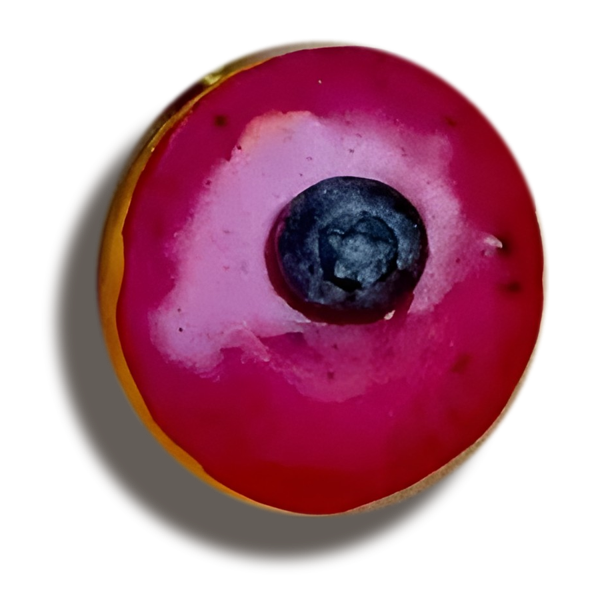
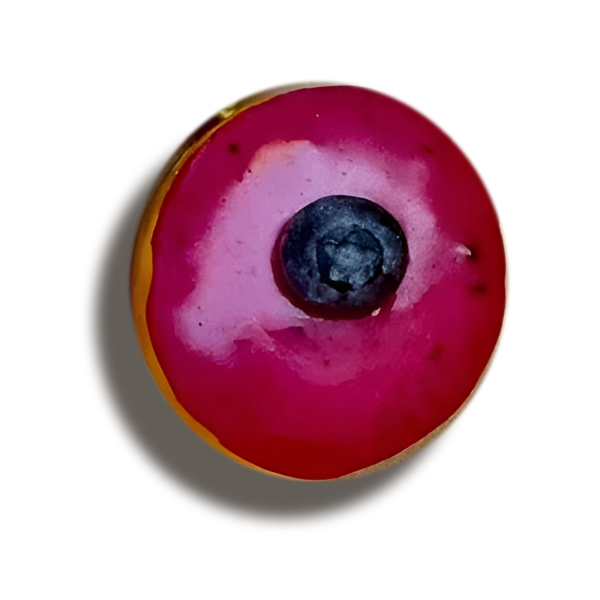
Experiences hero centers the woman on the left on phones; Berry Sage a size smaller
Claude-Session: https://claude.ai/code/session_017dyk7HcCai2t8WYJDRU6Y3

diff --git a/accessibility.html b/accessibility.html
@@ -27,7 +27,7 @@
   <link rel="preconnect" href="https://fonts.googleapis.com">
   <link rel="preconnect" href="https://fonts.gstatic.com" crossorigin>
   <link href="https://fonts.googleapis.com/css2?family=Anton&family=Caudex:ital,wght@0,400;0,700;1,400;1,700&family=Figtree:wght@400;500;700;800;900&family=Montserrat:wght@800;900&display=swap" rel="stylesheet">
-  <link rel="stylesheet" href="styles.css?v=035a227a">
+  <link rel="stylesheet" href="styles.css?v=7808df28">
 </head>
 <body class="page-accessibility">
 
@@ -216,7 +216,7 @@
   </div>
 </dialog>
 
-<script src="data/fallback.js?v=035a227a" defer></script>
-<script src="app.js?v=035a227a" defer></script>
+<script src="data/fallback.js?v=7808df28" defer></script>
+<script src="app.js?v=7808df28" defer></script>
 </body>
 </html>

diff --git a/experiences.html b/experiences.html
@@ -27,7 +27,7 @@
   <link rel="preconnect" href="https://fonts.googleapis.com">
   <link rel="preconnect" href="https://fonts.gstatic.com" crossorigin>
   <link href="https://fonts.googleapis.com/css2?family=Anton&family=Caudex:ital,wght@0,400;0,700;1,400;1,700&family=Figtree:wght@400;500;700;800;900&family=Montserrat:wght@800;900&display=swap" rel="stylesheet">
-  <link rel="stylesheet" href="styles.css?v=035a227a">
+  <link rel="stylesheet" href="styles.css?v=7808df28">
 </head>
 <body class="page-experiences">
 
@@ -233,7 +233,7 @@
   </div>
 </dialog>
 
-<script src="data/fallback.js?v=035a227a" defer></script>
-<script src="app.js?v=035a227a" defer></script>
+<script src="data/fallback.js?v=7808df28" defer></script>
+<script src="app.js?v=7808df28" defer></script>
 </body>
 </html>

diff --git a/locations.html b/locations.html
@@ -27,7 +27,7 @@
   <link rel="preconnect" href="https://fonts.googleapis.com">
   <link rel="preconnect" href="https://fonts.gstatic.com" crossorigin>
   <link href="https://fonts.googleapis.com/css2?family=Anton&family=Caudex:ital,wght@0,400;0,700;1,400;1,700&family=Figtree:wght@400;500;700;800;900&family=Montserrat:wght@800;900&display=swap" rel="stylesheet">
-  <link rel="stylesheet" href="styles.css?v=035a227a">
+  <link rel="stylesheet" href="styles.css?v=7808df28">
 </head>
 <body class="page-locations">
 
@@ -233,7 +233,7 @@
   </div>
 </dialog>
 
-<script src="data/fallback.js?v=035a227a" defer></script>
-<script src="app.js?v=035a227a" defer></script>
+<script src="data/fallback.js?v=7808df28" defer></script>
+<script src="app.js?v=7808df28" defer></script>
 </body>
 </html>

diff --git a/our-story.html b/our-story.html
@@ -27,7 +27,7 @@
   <link rel="preconnect" href="https://fonts.googleapis.com">
   <link rel="preconnect" href="https://fonts.gstatic.com" crossorigin>
   <link href="https://fonts.googleapis.com/css2?family=Anton&family=Caudex:ital,wght@0,400;0,700;1,400;1,700&family=Figtree:wght@400;500;700;800;900&family=Montserrat:wght@800;900&display=swap" rel="stylesheet">
-  <link rel="stylesheet" href="styles.css?v=035a227a">
+  <link rel="stylesheet" href="styles.css?v=7808df28">
 </head>
 <body class="page-our-story">
 
@@ -243,7 +243,7 @@
   </div>
 </dialog>
 
-<script src="data/fallback.js?v=035a227a" defer></script>
-<script src="app.js?v=035a227a" defer></script>
+<script src="data/fallback.js?v=7808df28" defer></script>
+<script src="app.js?v=7808df28" defer></script>
 </body>
 </html>

diff --git a/flavors.html b/flavors.html
@@ -27,7 +27,7 @@
   <link rel="preconnect" href="https://fonts.googleapis.com">
   <link rel="preconnect" href="https://fonts.gstatic.com" crossorigin>
   <link href="https://fonts.googleapis.com/css2?family=Anton&family=Caudex:ital,wght@0,400;0,700;1,400;1,700&family=Figtree:wght@400;500;700;800;900&family=Montserrat:wght@800;900&display=swap" rel="stylesheet">
-  <link rel="stylesheet" href="styles.css?v=035a227a">
+  <link rel="stylesheet" href="styles.css?v=7808df28">
 </head>
 <body class="page-flavors">
 
@@ -258,7 +258,7 @@
   </div>
 </dialog>
 
-<script src="data/fallback.js?v=035a227a" defer></script>
-<script src="app.js?v=035a227a" defer></script>
+<script src="data/fallback.js?v=7808df28" defer></script>
+<script src="app.js?v=7808df28" defer></script>
 </body>
 </html>

diff --git a/pop-ups.html b/pop-ups.html
@@ -27,7 +27,7 @@
   <link rel="preconnect" href="https://fonts.googleapis.com">
   <link rel="preconnect" href="https://fonts.gstatic.com" crossorigin>
   <link href="https://fonts.googleapis.com/css2?family=Anton&family=Caudex:ital,wght@0,400;0,700;1,400;1,700&family=Figtree:wght@400;500;700;800;900&family=Montserrat:wght@800;900&display=swap" rel="stylesheet">
-  <link rel="stylesheet" href="styles.css?v=035a227a">
+  <link rel="stylesheet" href="styles.css?v=7808df28">
 </head>
 <body class="page-pop-ups">
 
@@ -349,7 +349,7 @@
   </div>
 </dialog>
 
-<script src="data/fallback.js?v=035a227a" defer></script>
-<script src="app.js?v=035a227a" defer></script>
+<script src="data/fallback.js?v=7808df28" defer></script>
+<script src="app.js?v=7808df28" defer></script>
 </body>
 </html>

diff --git a/index.html b/index.html
@@ -27,7 +27,7 @@
   <link rel="preconnect" href="https://fonts.googleapis.com">
   <link rel="preconnect" href="https://fonts.gstatic.com" crossorigin>
   <link href="https://fonts.googleapis.com/css2?family=Anton&family=Caudex:ital,wght@0,400;0,700;1,400;1,700&family=Figtree:wght@400;500;700;800;900&family=Montserrat:wght@800;900&display=swap" rel="stylesheet">
-  <link rel="stylesheet" href="styles.css?v=035a227a">
+  <link rel="stylesheet" href="styles.css?v=7808df28">
 </head>
 <body class="page-index">
 
@@ -369,7 +369,7 @@
   </div>
 </dialog>
 
-<script src="data/fallback.js?v=035a227a" defer></script>
-<script src="app.js?v=035a227a" defer></script>
+<script src="data/fallback.js?v=7808df28" defer></script>
+<script src="app.js?v=7808df28" defer></script>
 </body>
 </html>

diff --git a/styles.css b/styles.css
@@ -1458,6 +1458,6 @@ form[data-form] .lab-txt { display: inline; }
 /* Experiences hero: the trays photo fills the screen on every device */
 .page-hero.ph-exp { min-height: 100svh; }
 .page-hero.ph-exp .ph-photo { object-position: 50% 28%; }
-@media (max-width: 700px) { .page-hero.ph-exp .ph-photo { object-position: 66% 30%; } }
+@media (max-width: 700px) { .page-hero.ph-exp .ph-photo { object-position: 34% 30%; } }
 /* The counter/card starts level with the date line, not above it */
 .lh-side { padding-top: 2px; }
